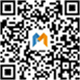
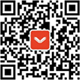
修改mysql

diff --git a/resources/views/index/woshipm/templates/right_column.blade.php b/resources/views/index/woshipm/templates/right_column.blade.php
@@ -1,6 +1,6 @@
 <div class="right-column">
     <div class="sidebar">
-        <aside id="widget_notice-2" class="widget widget_widget_notice"><h3 class="widget-title">加入圈子</h3>
+        <aside id="widget_notice-2" class="widget widget_widget_notice"><h3 class="widget-title">关注微信公众号</h3>
             <div class="widget-site-info">
                 <div class="join-info">
 
@@ -11,11 +11,11 @@
                         <dt>关注微信公众号</dt>
                     </dl>
                     <ul class="code-ul">
-                        <li>运营交流群：193274344</li>
-                        <li>北京产品群：485701965</li>
-                        <li>福建产品群：397675573</li>
-                        <li>全国产品群：617953507</li>
-                        <li>江浙沪产品群：136399658</li>
+                        <li>QQ：1358180015</li>
+                        <li>QQ：1358180015</li>
+                        <li>QQ：1358180015</li>
+                        <li>QQ：1358180015</li>
+                        <li>QQ：1358180015</li>
                     </ul>
                 </div>
                 <div class="app-info"><a class="ios"

diff --git a/resources/views/admin/header.blade.php b/resources/views/admin/header.blade.php
@@ -7,7 +7,7 @@
     <link rel="stylesheet" href="https://cdn.bootcss.com/admin-lte/2.3.8/css/AdminLTE.min.css">
     <link rel="stylesheet" href="{{ URL::asset('public/css/dataTables.bootstrap.css') }}">
     <link rel="stylesheet" href="https://cdn.bootcss.com/admin-lte/2.3.8/css/skins/_all-skins.css">
-    <link rel="stylesheet" href="{{ URL::asset('public/css/font-awesome.css') }}">
+    <link rel="stylesheet" href="http://apps.bdimg.com/libs/fontawesome/4.4.0/css/font-awesome.min.css">
     <link rel="stylesheet" href="{{ URL::asset('public/css/viralnova.css') }}">
     <link rel="stylesheet" href="{{ URL::asset('public/plugins/zTree_v3-3.5.28/css/zTreeStyle/zTreeStyle.css') }}">
     <link rel="stylesheet" href="{{ URL::asset('public/plugins/uploadify/uploadify.css') }}">

diff --git a/resources/views/admin/write.blade.php b/resources/views/admin/write.blade.php
@@ -220,8 +220,8 @@
                         </div>
 
                     </form>
-                    <script src="{{ URL::asset('public/plugins/ueditor/ueditor.config.js') }}"></script>
-                    <script src="{{ URL::asset('public/plugins/ueditor/ueditor.all.js') }}"></script>
+                    <script src="http://apps.bdimg.com/libs/ueditor/1.4.3.1/ueditor.config.js"></script>
+                    <script src="http://apps.bdimg.com/libs/ueditor/1.4.3.1/ueditor.all.min.js"></script>
                     <script type="text/javascript">
                         var ue = UE.getEditor('container', {
                             initialFrameWidth: '100%'

diff --git a/config/database.php b/config/database.php
@@ -56,9 +56,9 @@ return [
             'driver' => 'mysql',
             'host' => env('DB_HOST', 'localhost'),
             'port' => env('DB_PORT', '3306'),
-            'database' => env('DB_DATABASE', 'viralnova'),
+            'database' => env('DB_DATABASE', ''),
             'username' => env('DB_USERNAME', 'root'),
-            'password' => env('DB_PASSWORD', '10idccom@'),
+            'password' => env('DB_PASSWORD', ''),
             'charset' => 'utf8',
             'collation' => 'utf8_unicode_ci',
             'prefix' => '',

diff --git a/resources/views/admin/basic_info.blade.php b/resources/views/admin/basic_info.blade.php
@@ -81,7 +81,7 @@
 
                 <div class="col-md-3">
 
-                    <img style="width: 100%" src=" userInfo.avatar %>" alt="">
+                    <img style="width: 100%" src="{{ $userInfo->avatar }}" alt="">
                 </div>
 
 
